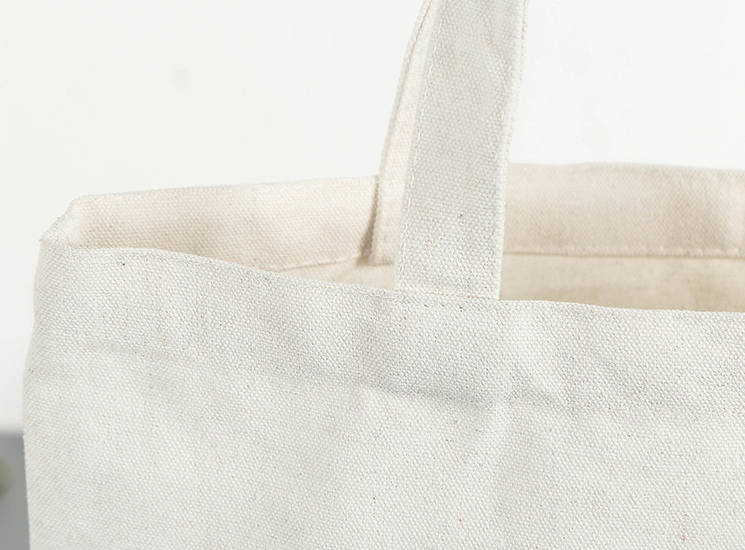
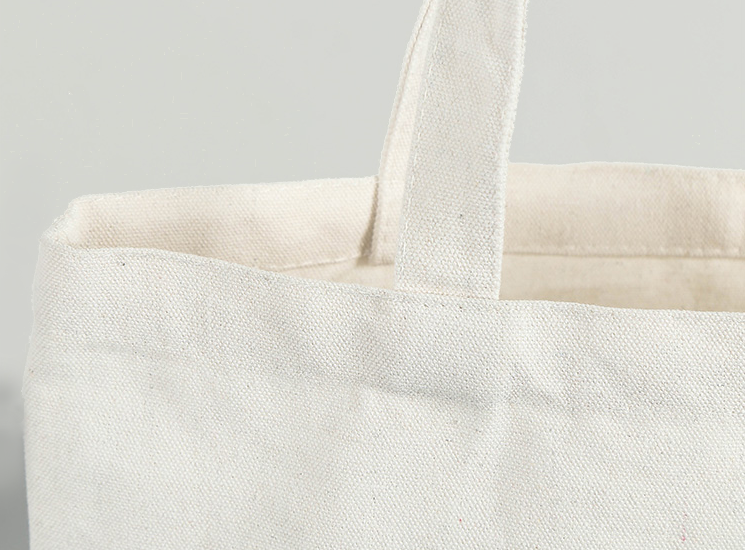
Modified indvi product pages - fixed css classes legacy error syntax - added location bar - modified photos

Changed region(s): [[0.0, 0.0, 0.5866, 0.8964], [0.6792, 0.0, 1.0, 0.3091]]

diff --git a/shop.html b/shop.html
@@ -33,7 +33,7 @@
       <script src="https://unpkg.com/ionicons@5.4.0/dist/ionicons.js"></script>
 
       <div style="width: 50vw; margin-top: 120px;" class="container column">  <!-- CONTAINER 1 -->
-
+        
         <h1> Shop </h1>
         <div class="underline"></div>
 
@@ -52,12 +52,12 @@
 
           <div class="product-frame">
             <div class="product-img-wrapper">
-              <a href="product/bottle.html" target="_blank" rel="noopener noreferrer">
-                <img src="res/bottle.jpg" title="CosyBen Bag">
+              <a href="bottle.html" target="_blank" rel="noopener noreferrer">
+                <img src="res/bottle.png" title="CosyBen Bag">
               </a>
             </div>
             <div class="product-detail text-link">
-              <a href="res/bottle.html" target="_blank" rel="noopener noreferrer">
+              <a href="bottle.html" target="_blank" rel="noopener noreferrer">
               <h4>Water Bottle</h4>
               <p>$15.99</p></a>
             </div>
@@ -65,11 +65,11 @@
 
           <div class="product-frame">
             <div class="product-img-wrapper">
-              <a href="product/t-shirt.html" target="_blank" rel="noopener noreferrer">
+              <a href="t-shirt.html" target="_blank" rel="noopener noreferrer">
                 <img src="res/shirt.png" title="CosyBen T-shirt"></a>
             </div>
             <div class="product-detail">
-              <a class="text-link" href="product/t-shirt.html" target="_blank" rel="noopener noreferrer">
+              <a class="text-link" href="t-shirt.html" target="_blank" rel="noopener noreferrer">
               <h4>T-shirt</h4>
               <p>$24.99</p></a>
             </div>
@@ -77,11 +77,11 @@
 
           <div class="product-frame">
             <div class="product-img-wrapper">
-              <a href="product/t-shirt.html" target="_blank" rel="noopener noreferrer">
+              <a href="t-shirt.html" target="_blank" rel="noopener noreferrer">
                 <img src="res/shirt.png" title="CosyBen T-shirt"></a>
             </div>
             <div class="product-detail">
-              <a class="text-link" href="product/t-shirt.html" target="_blank" rel="noopener noreferrer">
+              <a class="text-link" href="t-shirt.html" target="_blank" rel="noopener noreferrer">
               <h4>T-shirt</h4>
               <p>$24.99</p></a>
             </div>
@@ -89,11 +89,11 @@
 
           <div class="product-frame">
             <div class="product-img-wrapper">
-              <a href="product/bottle.html" target="_blank" rel="noopener noreferrer">
-                <img src="res/bottle.jpg" title="CosyBen Water Bottle"></a>
+              <a href="bottle.html" target="_blank" rel="noopener noreferrer">
+                <img src="res/bottle.png" title="CosyBen Water Bottle"></a>
             </div>
             <div class="product-detail text-link">
-              <a href="res/bottle.html" target="_blank" rel="noopener noreferrer">
+              <a href="bottle.html" target="_blank" rel="noopener noreferrer">
               <h4>Water Bottle</h4>
               <p>$15.99</p></a>
             </div>
@@ -113,11 +113,11 @@
 
           <div class="product-frame">
             <div class="product-img-wrapper">
-              <a href="product/bottle.html" target="_blank" rel="noopener noreferrer">
-                <img src="res/bottle.jpg" title="CosyBen Water Bottle"></a>
+              <a href="bottle.html" target="_blank" rel="noopener noreferrer">
+                <img src="res/bottle.png" title="CosyBen Water Bottle"></a>
             </div>
             <div class="product-detail text-link">
-              <a href="res/bottle.html" target="_blank" rel="noopener noreferrer">
+              <a href="bottle.html" target="_blank" rel="noopener noreferrer">
               <h4>Water Bottle</h4>
               <p>$15.99</p></a>
             </div>

diff --git a/bottle.html b/bottle.html
@@ -2,7 +2,7 @@
 <html lang="en">
 
   <head>
-    <title> Hand Bag </title>
+    <title> Water Bottle </title>
     <link rel="stylesheet" href="style.css">
   </head>
 
@@ -38,31 +38,31 @@
       <p class="indv-loc">
         <a href=index.html>CosyBen</a> >>
         <a href=shop.html>Shop</a> >>
-        <a href=bag.html>Hand Bag</a>
+        <a href=bottle.html>Water Bottle</a>
       </p>
 
-      <div class="row" style="">
+      <div class="row">
         <div class="indv-img column"><!-- Image Side -->
           <div class="indv-img-frame">
             <div class="indv-img-wrapper">
-              <img src="res/bag.jpg" title="CosyBen Bag">
+              <img src="res/bottle.png" title="CosyBen Water Bottle">
             </div>
           </div>
 
           <div class="row">
             <div class="indv-mini-img">
               <div class="indv-img-wrapper">
-                <img src="res/bag-2.png" title="CosyBen Bag">
+                <img src="res/bottle-1.png" title="CosyBen Water Bottle">
               </div>
             </div>
             <div class="indv-mini-img">
               <div class="indv-img-wrapper">
-                <img src="res/bag-1.png" title="CosyBen Bag">
+                <img src="res/bottle-2.png" title="CosyBen Water Bottle">
               </div>
             </div>
             <div class="indv-mini-img">
               <div class="indv-img-wrapper">
-                <img src="res/bag-2.png" title="CosyBen Bag">
+                <img src="res/bottle-3.png" title="CosyBen Water Bottle">
               </div>
             </div>
           </div>
@@ -70,13 +70,13 @@
         </div>
 
         <div class="indv-text column"><!-- Text Side -->
-          <h2>HAND BAG</h2>
+          <h2>WATER BOTTLE</h2>
           <div class="row">
             <h4 style="margin:0;">CAD</h4>
-            <h4 style="margin:0;">$19.99</h4>
+            <h4 style="margin:0;">$15.99</h4>
           </div><br>
           <h4>DESCRIPTION</h4>
-          <p>Our tote bags are great gift idea or souvenir. The thermally bonded vinyl used ensures a vibrant look and feel that is sure to last a lifetime. Our tote bags feature a laminated interior and a internal zippered pockets.   </p>
+          <p>Featuring triple-layered, vacuum-insulated construction designed to keep beverages colder or hotter, longer than all the rest. This bottle is ideal for everyday hydration.</p>
           <br>
 
           <h4>QUANTITY</h4>

diff --git a/style.css b/style.css
@@ -23,6 +23,8 @@
 p {
   font-family: YaHei Regular;
   font-weight: lighter;
+  font-size: 16px;
+  line-height: 1.5;
 }
 
 input, textarea, code, span, ::placeholder {
@@ -49,10 +51,6 @@ h4{
   text-transform: uppercase;
 }
 
-p {
-  font-size: 16px;
-  line-height: 1.5;
-}
 
 
 a{
@@ -320,7 +318,7 @@ ion-icon.socials:hover{
   background-color: white;
 }
 
-.product-img-wrapper img{
+.product-img-wrapper > img{
   max-height:100%;
   height: 250px;
   transition: all .5s ease;
@@ -334,12 +332,12 @@ ion-icon.socials:hover{
   border-radius: 20px;
 }
 
-.product-img-wrapper img:hover,
-.product-img-wrapper img:focus {
+.product-img-wrapper >  img:hover,
+.product-img-wrapper >  img:focus {
   transform:scale(1.3);
 }
 
-.product-detail h4, p, a{
+.product-detail > h4, .product-detail > p, .product-detail > a {
   margin: 5px 0;
   color: #ffffff;
 }
@@ -391,7 +389,7 @@ ion-icon.socials:hover{
 .totalContainer div {
   margin: 0 2em 0 0 ;
 }
-.totalContainer h4,h3 {
+.totalContainer > h4, .totalContainer > h3 {
   margin: 0.3rem 1rem;
 }
 
@@ -401,7 +399,7 @@ ion-icon.socials:hover{
   width: 33rem;
 }
 
-.payment h4, label {
+.payment h4, .payment > label {
   margin: 15px 0 0 1px ;
 }
 
@@ -449,6 +447,10 @@ ion-icon.socials:hover{
 /*
   INDIVIDUAL PRODUCT PAGE-------------------
 */
+/* location */
+.indv-loc > a {
+  font-size: 14px;
+}
 /* image side */
 .indv-img {
   width: 40%;
@@ -488,7 +490,7 @@ ion-icon.socials:hover{
 .indv-text > h4{
   margin: 2rem 0px 0.5rem 0px;
 }
-.indv-text > h3, h2{
+.indv-text > h3, .indv-text > h2{
   margin: 0 5px 0.5rem 0;
 }
 /* add space above */
